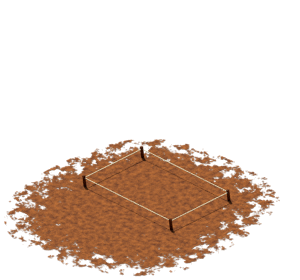
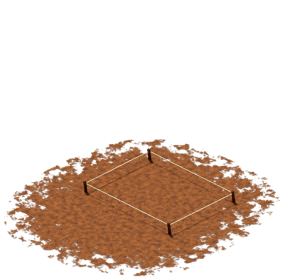
3D stonecutter closer to the Settlers 4 one
Stone gables stand proud of the roof and carry a row of big coping
stones along the raking edges; the roof is wide warm-brown boards laid
along the ridge between the gables, with dark gaps; taller walls of
bigger blocks, a big round arch in the front gable; a plank shed on the
side.

Changed region(s): [[0.27, 0.5143, 0.81, 0.8571], [0.6, 0.6, 0.66, 0.6571]]

diff --git a/art/blender/buildings.py b/art/blender/buildings.py
@@ -250,66 +250,149 @@ def build_sawmill():
 
 # ------------------------------------------------------------------------------------- stonecutter
 
+def gable_blocks(cx, y, L, H, rh, mats, rnd, block=0.2, depth=0.06):
+    """Rugged blocks over a gable triangle on the −Y face (ridge along Y), rows narrowing to the apex."""
+    rows = max(1, round(rh / (block * 0.7)))
+    h = rh / rows
+    for r in range(rows):
+        z = H + (r + 0.5) * h
+        half = (L / 2) * (1 - (r + 0.5) / rows)
+        x = cx - half - (r % 2) * block / 3
+        while x < cx + half:
+            w = min(block * rnd.uniform(0.7, 1.3), cx + half - x)
+            if w > 0.05:
+                d = depth * rnd.uniform(0.6, 1.4)
+                lib.box((x + w / 2, y - d / 2, z), (w - 0.022, d, h * rnd.uniform(0.78, 0.92)),
+                        mats[rnd.randrange(len(mats))],
+                        rot=(rnd.uniform(-0.06, 0.06), rnd.uniform(-0.08, 0.08), rnd.uniform(-0.05, 0.05)), bevel=0.02)
+            x += w
+
+
+def coping(cx, y, L, H, rh, mats, rnd, size=0.15):
+    """Big stones along both raking edges of a gable (ridge along Y), standing proud of the roof like a
+    row of teeth, as on Settlers 4 stone huts."""
+    half = L / 2 + 0.06
+    run = math.hypot(half, rh)
+    n = max(2, round(run / (size * 0.95)))
+    ang = math.atan2(rh, half)
+    for side in (-1, 1):
+        for k in range(n):
+            t = (k + 0.5) / n
+            x = cx + side * half * (1 - t)
+            z = H - 0.02 + rh * t + 0.05
+            s = size * rnd.uniform(0.85, 1.15)
+            lib.box((x, y + rnd.uniform(-0.01, 0.01), z), (s, s * 1.1, s * 0.75), mats[rnd.randrange(len(mats))],
+                    rot=(rnd.uniform(-0.1, 0.1), side * ang + rnd.uniform(-0.12, 0.12), rnd.uniform(-0.1, 0.1)),
+                    bevel=0.025)
+
+
+def board_roof_along(cx, y0, y1, H, rh, half, boards, rnd, width=0.13, side=1, eave=0.06):
+    """One slope of a roof whose wide boards lie parallel to the ridge (ridge along Y at x = cx),
+    between the gable walls at y0 and y1: uneven tones and lie, dark gaps between the boards."""
+    run = half + eave
+    drop = eave * rh / half
+    rise = rh + drop
+    ang = math.atan2(rise, run)
+    slope = math.hypot(run, rise)
+    n = max(2, int(slope / width))
+    made = []
+    for k in range(n):
+        t = (k + 0.5) / n  # 0 at the ridge, 1 at the eave
+        x = cx + side * run * t
+        z = H + rh - rise * t + 0.03
+        length = (y1 - y0) * rnd.uniform(0.93, 1.0)
+        ym = (y0 + y1) / 2 + rnd.uniform(-0.02, 0.02)
+        b = lib.box((x, ym, z + rnd.uniform(-0.006, 0.006)), (slope / n * 0.8, length, 0.035),
+                    boards[rnd.randrange(len(boards))],
+                    rot=(rnd.uniform(-0.03, 0.03), side * ang, rnd.uniform(-0.03, 0.03)), bevel=0.005)
+        made.append((b, t))
+    return made
+
+
 def build_stonecutter():
-    """Squat hut of rough stone blocks with an arched doorway and a plank roof, a wooden lean-to on
-    the side."""
-    B = _b()
+    """After the Settlers 4 stonecutter: a squat hut of big rough stone blocks, its stone gables
+    standing proud of a roof of wide boards laid along the ridge and edged with a row of coping
+    stones, a big round arch in the front gable, a plank shed on the side."""
     rnd = random.Random(11)
     walls = stone_walls()
     blocks = block_mats()
-    beam, boards = beam_mat(), boards_mats()
-    dark = lib.mat_flat('dark', (0.06, 0.05, 0.04))
+    beam = beam_mat()
+    # Warm, weathered red-brown boards, as on the original's roof.
+    boards = [lib.mat_grain(f'sboard{k}', a, b, scale=4, stretch=(1, 9, 1), bump=0.8) for k, (a, b) in enumerate((
+        ((0.42, 0.22, 0.08), (0.7, 0.44, 0.18)),
+        ((0.34, 0.18, 0.07), (0.58, 0.34, 0.14)),
+        ((0.5, 0.3, 0.11), (0.78, 0.54, 0.24)),
+    ))]
+    dark = lib.mat_flat('dark', (0.05, 0.04, 0.03))
     earth_pad((0.05, -0.2, 0), 1.0, 1.12, seed=12)
     lib.tag(0)
 
-    cx, cy, L, W, H, rh = -0.25, 0.15, 0.95, 0.9, 0.58, 0.34
+    # Ridge along Y: the arched gable faces the camera's lower left (−Y, where the door tile is),
+    # the visible roof slope faces +X, towards the shed.
+    cx, cy, L, W, H, rh = -0.2, 0.12, 0.86, 1.0, 0.6, 0.44
     x0, x1, y0, y1 = cx - L / 2, cx + L / 2, cy - W / 2, cy + W / 2
-    corner_stakes(x0, x1 + 0.4, y0, y1)
+    corner_stakes(x0, x1 + 0.45, y0, y1)
     lib.tag(0, until=0)
 
-    # Foundation course, and a scaffold of poles that stands until the roof goes on.
-    lib.box((cx, cy, 0.05), (L + 0.06, W + 0.06, 0.1), blocks[1], bevel=0.02)
+    lib.box((cx, cy, 0.05), (L + 0.08, W + 0.08, 0.1), blocks[1], bevel=0.02)
     lib.tag(1)
-    for x in (x0 - 0.06, x1 + 0.06):
-        for y in (y0 - 0.06, y1 + 0.06):
-            lib.cylinder((x, y, 0.4), 0.025, 0.8, beam, verts=8)
+    for x in (x0 - 0.07, x1 + 0.07):
+        for y in (y0 - 0.07, y1 + 0.07):
+            lib.cylinder((x, y, 0.45), 0.025, 0.9, beam, verts=8)
     lib.tag(1, until=3)
 
-    # Walls in two halves, each a core with rugged blocks on the visible faces.
     half = H / 2
     lib.box((cx, cy, 0.1 + (half - 0.1) / 2), (L, W, half - 0.1), walls)
-    stone_course(x0, x1, y0, y1, 0.1, half, blocks, rnd)
+    stone_course(x0, x1, y0, y1, 0.1, half, blocks, rnd, block=0.21, depth=0.07)
     lib.tag(2)
     lib.box((cx, cy, half + half / 2), (L, W, half), walls)
-    stone_course(x0, x1, y0, y1, half, H, blocks, rnd)
-    lib.gable((cx, cy, H), W - 0.02, rh - 0.02, x0 + 0.01, blocks[0], along='x')
-    lib.gable((cx, cy, H), W - 0.02, rh - 0.02, x1 - 0.01, blocks[0], along='x')
-    lib.tag(3)
-    # Arched doorway: dark opening, voussoir blocks round the arch.
-    ax = cx + 0.12
-    lib.box((ax, y0 - 0.06, 0.17), (0.26, 0.04, 0.34), dark)
-    lib.cylinder((ax, y0 - 0.06, 0.34), 0.13, 0.04, dark, rot=(math.pi / 2, 0, 0), verts=20)
-    for k in range(9):
-        a = math.pi * k / 8
-        lib.box((ax + math.cos(a) * 0.17, y0 - 0.1, 0.34 + math.sin(a) * 0.17), (0.08, 0.07, 0.1), blocks[2],
-                rot=(0, -a + math.pi / 2, 0), bevel=0.012)
-    for z in (0.05, 0.16, 0.27):
+    stone_course(x0, x1, y0, y1, half, H, blocks, rnd, block=0.21, depth=0.07)
+    # Stone gables, front and back, the front one dressed in blocks.
+    lib.gable((cx, cy, H), L, rh, y0 + 0.01, walls, along='y')
+    lib.gable((cx, cy, H), L, rh, y1 - 0.01, walls, along='y')
+    gable_blocks(cx, y0, L, H, rh, blocks, rnd)
+    # The big round arch in the front gable wall: a deep dark opening framed by chunky voussoirs.
+    ax, ar, az = cx - 0.02, 0.2, 0.3
+    lib.box((ax, y0 - 0.06, az / 2 + 0.03), (ar * 2, 0.06, az), dark)
+    lib.cylinder((ax, y0 - 0.06, az), ar, 0.06, dark, rot=(math.pi / 2, 0, 0), verts=24)
+    for k in range(11):
+        a = math.pi * k / 10
+        lib.box((ax + math.cos(a) * (ar + 0.05), y0 - 0.11, az + math.sin(a) * (ar + 0.05)), (0.1, 0.09, 0.12),
+                blocks[(k % 2) * 2], rot=(0, -a + math.pi / 2, 0), bevel=0.02)
+    for z in (0.07, 0.2):
         for sgn in (-1, 1):
-            lib.box((ax + sgn * 0.17, y0 - 0.1, z), (0.09, 0.07, 0.11), blocks[2], bevel=0.012)
+            lib.box((ax + sgn * (ar + 0.05), y0 - 0.11, z), (0.11, 0.09, 0.13), blocks[2], bevel=0.02)
     lib.tag(3)
 
-    B.plank_roof(cx, cy, L, W, H, rh, boards, axis='x', seed=13)
-    lib.tag(None, split=lambda o: 3 if o.location.y < cy - 0.05 else 4)
-    # Lean-to of planks on the +X side.
-    sx0, sx1 = x1 + 0.02, x1 + 0.42
-    for y in (y0 + 0.08, y1 - 0.08):
-        lib.box((sx1, y, 0.22), (0.05, 0.05, 0.44), beam)
-    tilt = math.atan2(0.2, sx1 - sx0)
-    for k in range(7):
-        y = y0 + 0.05 + k * (W - 0.1) / 6
-        lib.box(((sx0 + sx1) / 2 + 0.03, y, 0.53), (sx1 - sx0 + 0.16, 0.11, 0.025), boards[k % 4],
-                rot=(0, tilt, rnd.uniform(-0.05, 0.05)), bevel=0.004)
-    lib.box((sx1, cy, 0.44), (0.06, W - 0.1, 0.05), beam)
+    # Roof of wide boards along the ridge, sitting between the gables; coping stones on the gables.
+    inner0, inner1 = y0 + 0.04, y1 - 0.04
+    made = board_roof_along(cx, inner0, inner1, H, rh, L / 2, boards, rnd, side=1)
+    made += board_roof_along(cx, inner0, inner1, H, rh, L / 2, boards, rnd, side=-1)
+    lib.tag(None, split=lambda o: next((3 if t > 0.5 else 4 for b, t in made if b == o), 4))
+    coping(cx, y0 + 0.02, L, H, rh, blocks, rnd)
+    coping(cx, y1 - 0.02, L, H, rh, blocks, rnd)
+    lib.tag(3)
+
+    # Plank shed on the +X side: board walls, a roof of boards running down the slope.
+    sx0, sx1, sy0, sy1 = x1 + 0.02, x1 + 0.4, y0 + 0.18, y1 - 0.04
+    sh_hi, sh_lo = H - 0.04, 0.42
+    for x, y in ((sx1, sy0), (sx1, sy1)):
+        lib.box((x, y, sh_lo / 2), (0.05, 0.05, sh_lo), beam)
+    n = 5
+    for k in range(n):  # front wall boards (−Y face of the shed), upright
+        x = sx0 + (k + 0.5) * (sx1 - sx0) / n
+        hgt = sh_hi + (sh_lo - sh_hi) * (k + 0.5) / n
+        lib.box((x, sy0, hgt / 2), ((sx1 - sx0) / n * 0.9, 0.03, hgt), boards[k % len(boards)],
+                rot=(0, rnd.uniform(-0.02, 0.02), 0), bevel=0.004)
+    for k in range(6):  # side wall boards (+X face), upright
+        y = sy0 + (k + 0.5) * (sy1 - sy0) / 6
+        lib.box((sx1, y, sh_lo / 2), (0.03, (sy1 - sy0) / 6 * 0.9, sh_lo), boards[(k + 1) % len(boards)], bevel=0.004)
+    tilt = math.atan2(sh_hi - sh_lo, sx1 - sx0)
+    for k in range(7):  # roof boards running down the slope
+        y = sy0 - 0.04 + (k + 0.5) * (sy1 - sy0 + 0.08) / 7
+        lib.box(((sx0 + sx1) / 2 + 0.03, y, (sh_hi + sh_lo) / 2 + 0.03),
+                (math.hypot(sx1 - sx0, sh_hi - sh_lo) + 0.12, (sy1 - sy0 + 0.08) / 7 * 0.88, 0.03), boards[k % len(boards)],
+                rot=(rnd.uniform(-0.03, 0.03), tilt, rnd.uniform(-0.04, 0.04)), bevel=0.005)
     lib.tag(4)
 
 
